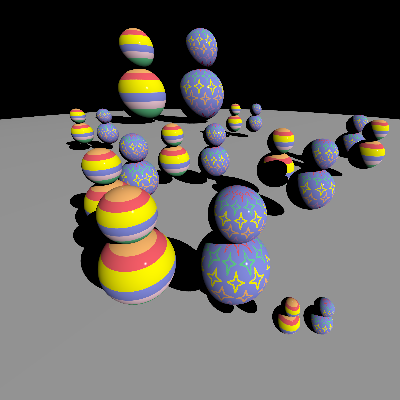
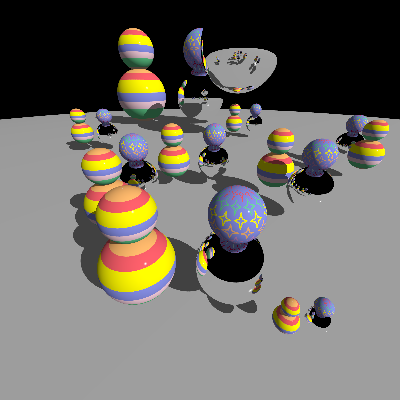
Spiegel funktioniert teilweise

diff --git a/src/cgg/a02/RayTracer.java b/src/cgg/a02/RayTracer.java
@@ -21,11 +21,11 @@ public record RayTracer(Lochkamera camera, Shape kugeln, ArrayList<Lichtquelle> 
         Hit treffer = kugeln.intersect(r);
 
         if(treffer == null) {
-            return black; //Standardhintergrundfarbe bei keinem Treffer
+           return black; //Standardhintergrundfarbe bei keinem Treffer
         }
         else {
             //return shade(treffer, r); //ohne rekursives Ray-Tracing
-            return recursiveShading(r, 0); //mit rekursivem Ray-Tracing
+            return recursiveShading(r, 10); //mit rekursivem Ray-Tracing
         }
     }
 
@@ -35,9 +35,24 @@ public record RayTracer(Lochkamera camera, Shape kugeln, ArrayList<Lichtquelle> 
      * @return die Farbe fuer diesen Punkt
      */
     public Color recursiveShading(Ray ray, int tiefe) {
+        if(ray == null || tiefe <= 0) {
+            return black;
+        }
 
+        Hit hit = kugeln.intersect(ray); 
+        if(hit == null) {
+            return black; //Standardhintergrundfarbe bei keinem Treffer
+        }
 
-        return black;
+        Color direct = shade(hit, ray); //Farbe aus Phong Modell ohne ambient
+        //weisse Farbe hier ist Albedo
+        Ray sekundaerStrahl = hit.getMaterial().berechneSekundaerstrahl(ray, hit);
+        Color global = black;
+        if(sekundaerStrahl != null) {
+            global = multiply(color(1,1,0.8), recursiveShading(sekundaerStrahl, tiefe -1));
+        }
+
+        return add(hit.getMaterial().emission(hit), direct, global);
     }
 
     /**
@@ -64,7 +79,7 @@ public record RayTracer(Lochkamera camera, Shape kugeln, ArrayList<Lichtquelle> 
             l = clamp(lichtquelle.get(i).intensitaet(hit.getTrefferPunkt())); //l ankommende Intensitaet im Punkt
             r = normalize(add(negate(s), multiply(2 * dot(s, n), n) )); //r Spiegelung von s an n
 
-            Color ambient = black; //multiply(multiply(kd, l), 0.1); //wird nicht mehr benoetigt, stattdessen rekursives Ray-Tracing
+            Color ambient = multiply(multiply(kd, l), 0.1); //wird nicht mehr benoetigt, stattdessen rekursives Ray-Tracing
             Color diffuse = clamp(multiply(kd, multiply(l, dot(n, s))));
             Color spiegelnd = black;
             if(dot(n, s) > 0 && dot(vec3(kd), vec3(l)) != 0){//&& dot(vec3(kd), s) != 0) { //wenn negativ ist weg zur Lichtquelle verdeckt (Winkel ist groesser 90)
@@ -86,7 +101,7 @@ public record RayTracer(Lochkamera camera, Shape kugeln, ArrayList<Lichtquelle> 
                 continue;
             }
 
-            ads = clamp(add(ambient, diffuse, spiegelnd)); //darf nicht groesser als 1 sein
+            ads = clamp(add(diffuse, spiegelnd)); //darf nicht groesser als 1 sein
             intensitaet = clamp(add(intensitaet, ads));
         }
         return intensitaet; //macht Farbe zwischen 0 und 1

diff --git a/src/cgg/a06/Main.java b/src/cgg/a06/Main.java
@@ -32,6 +32,7 @@ public class Main {
     //Texturen fuer Kugeln erstellen
     TexturedPhongMaterial sterne = new TexturedPhongMaterial(new ImageTexture("data/sterne2.png"), new ConstantColor(white), new ConstantColor(color(1000.0)));
     TexturedPhongMaterial streifen = new TexturedPhongMaterial(new ImageTexture("data/streifen.png"), new ConstantColor(white), new ConstantColor(color(1000.0)));
+    MaterialSpiegel spiegel = new MaterialSpiegel(new ConstantColor(white), new ConstantColor(white), new ConstantColor(color(1000.0)));
 
     //Gruppe mit zwei Schneemaennern mit unetrschiedlichen Texturen erstellen
     Kugel schneeMuster1 = new Kugel(vec3(1,-1,-4), 1.2, sterne);
@@ -53,15 +54,17 @@ public class Main {
     Group schneemann8 = new Group(multiply(move(vec3(3,0,-1.4)),scale(vec3(0.3))), zweiSchneemaenner);
     Group schneemann9 = new Group(multiply(move(vec3(-4,0,-30)),scale(vec3(4))), zweiSchneemaenner);
 
+    Group groupSpiegel = new Group(new Kugel(vec3(0,-4,-15), 5, spiegel));
+
     //alle Kugeln in eine Gruppe machen
     Kugel hinterKugel = new Kugel(vec3(0,1001,-30), 1000, new PhongMaterial(gray, white, 1000.0));
-    Group hintergrund = new Group(hinterKugel, schneemann1, schneemann2, schneemann3, schneemann4, schneemann5, schneemann6, schneemann7, schneemann8, schneemann9);
+    Group hintergrund = new Group(hinterKugel, schneemann1, groupSpiegel);
     Group welt = new Group(hintergrund);
     
     var image = new Image(width, height);
     RayTracer rayTracer = new RayTracer(kamera, welt, licht);
     //image.sample(rayTracer); //setzt Pixelfarben, ohne StratifiedSampling
     image.sample(new StratifiedSampling(rayTracer)); //setzt Pixelfarben, mit StratifiedSampling
-    image.writePng("a06-image"); //erstellt Bild
+    image.writePng("spiegel"); //erstellt Bild
   }
 }

diff --git a/src/cgg/a06/MaterialSpiegel.java b/src/cgg/a06/MaterialSpiegel.java
@@ -1,5 +1,8 @@
 package cgg.a06;
 
+import static tools.Color.black;
+import static tools.Color.gray;
+import static tools.Color.white;
 import static tools.Functions.*;
 
 import cgg.a02.Hit;
@@ -16,7 +19,7 @@ public record MaterialSpiegel(Sampler kd, Sampler ks, Sampler ke) implements Mat
      * @return Farbe fuer Wert kd basierend nach Texturen u und v
      */
     public Color baseColor(Hit h) {
-        return kd.getColor(h.getuv());
+        return black;
     }
 
     /**
@@ -24,7 +27,7 @@ public record MaterialSpiegel(Sampler kd, Sampler ks, Sampler ke) implements Mat
      * @return Farbe fuer Wert ks basierend nach Texturen u und v
      */
     public Color specular(Hit h) {
-        return ks.getColor(h.getuv());
+        return white;
     }
 
     /**
@@ -39,9 +42,13 @@ public record MaterialSpiegel(Sampler kd, Sampler ks, Sampler ke) implements Mat
         Vec3 v = normalize(negate(ray.getRichtung()));
         Vec3 n = normalize(h.getNormalenVektor());
         //r = v - 2 * (v * n) * n
-        Vec3 r = normalize(subtract(v, multiply(2 * dot(v, n), n) )); //Spiegelung von s an n
+        Vec3 r = normalize(add(negate(v), multiply(2 * dot(v, n), n) )); //Spiegelung von s an n
 
-        Ray raySekundaer = new Ray(h.getTrefferPunkt(), r, 0.0001, 99999);
+        Ray raySekundaer = new Ray(h.getTrefferPunkt(), r, 0.001, 99999);
         return raySekundaer;
+    }
+
+    public Color emission(Hit h) {
+        return multiply(0, kd.getColor(h.getuv()));
     }
 }

diff --git a/src/cgg/a04/TexturedPhongMaterial.java b/src/cgg/a04/TexturedPhongMaterial.java
@@ -1,5 +1,7 @@
 package cgg.a04;
 
+import static tools.Functions.*;
+
 import cgg.a02.Hit;
 import cgg.a02.Ray;
 import tools.Color;
@@ -33,5 +35,9 @@ public record TexturedPhongMaterial(Sampler kd, Sampler ks, Sampler ke) implemen
 
     public Ray berechneSekundaerstrahl(Ray r, Hit h) {
         return null;
+    }
+
+    public Color emission(Hit h) {
+        return multiply(0, kd.getColor(h.getuv()));
     }
 }

diff --git a/src/cgg/a04/PhongMaterial.java b/src/cgg/a04/PhongMaterial.java
@@ -1,5 +1,7 @@
 package cgg.a04;
 
+import static tools.Functions.multiply;
+
 import cgg.a02.Hit;
 import cgg.a02.Ray;
 import tools.Color;
@@ -32,6 +34,10 @@ public record PhongMaterial(Color kd, Color ks, double ke) implements Material {
 
     public Ray berechneSekundaerstrahl(Ray r, Hit h) {
         return null;
+    }
+
+    public Color emission(Hit h) {
+        return multiply(0, kd);
     }
 
 }

diff --git a/src/cgg/a04/Material.java b/src/cgg/a04/Material.java
@@ -13,4 +13,6 @@ public interface Material {
     double shininess(Hit h); //ke
 
     Ray berechneSekundaerstrahl(Ray r, Hit h); //berechnet zu einfallendem Primaerstrahl einen reflektierenden Sekundaerstrahl
+
+    Color emission(Hit h);
 }
